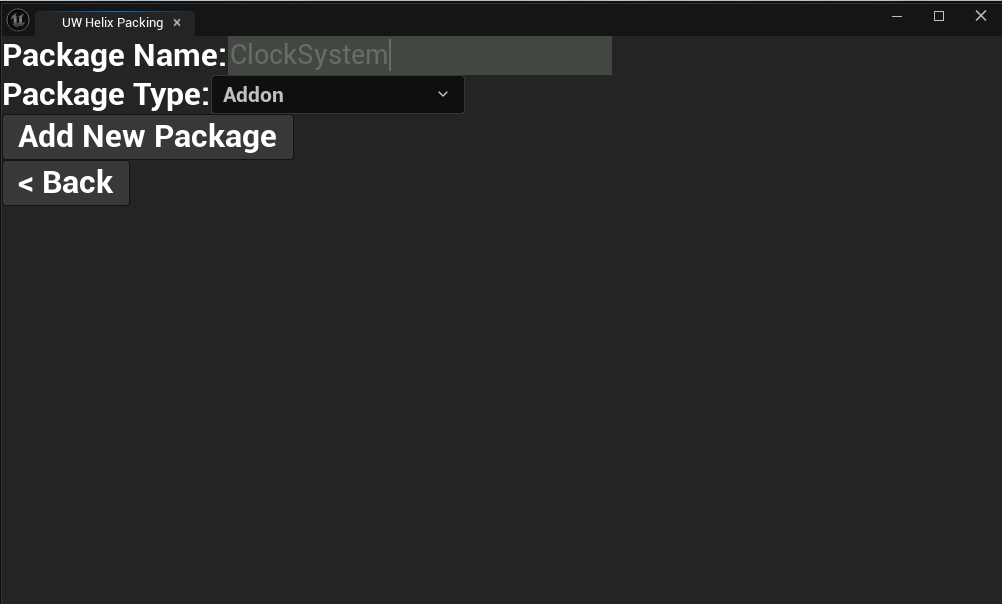
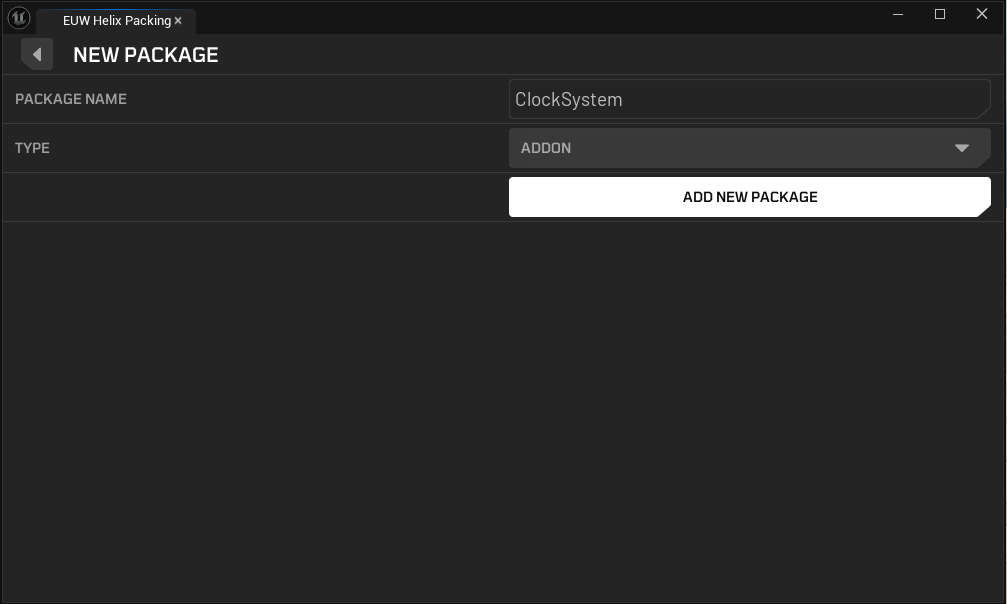
Update bp tutorial

Changed region(s): [[0.0, 0.0, 1.0, 0.1788], [0.495, 0.2384, 0.99, 0.3576], [0.0, 0.2086, 0.2784, 0.3278]]

diff --git a/docs/tutorials/custom_blueprints.md b/docs/tutorials/custom_blueprints.md
@@ -14,33 +14,28 @@ For this tutorial, we have a blueprint based clock system pack, which has a main
 
 1. Launch the **Creator Kit** editor.
 
-2. Access the **HELIX Packaging Tool** from the main toolbar.
+2. Find your imported Fab asset folder and right click to it. Select **Convert to Package (Addon)**. This will make it possible to directly cook this folder with HELIX Packaging Tool.
 
-3. In the packaging tool window, click **New Package**.
+    ![image.png](CustomBPImages/u_1.png)
 
-    ![image.png](CustomAnimImages/5.png)
+/// info | Note
+Alternatively, you can also create a new package from HELIX Packaging Tool and move your assets or import source files into this created package folder.
 
-5. Enter a unique Package Name (e.g., ClockSystem).
+![image.png](CustomBPImages/0.png)
 
-7. Select **Addon** as the **Package Type**.
-
-    ![image.png](CustomBPImages/0.png)
-
-9. Click **Add New Package**. This action creates a dedicated folder for your assets (e.g., **Content/Addon_ClockSystem**).
-
-10. Move (or create) the blueprints and all the dependent assets into the package folder you've just created.
-
-    ![image.png](CustomBPImages/1.png)
-  
-    ![image.png](CustomBPImages/2.png)
-  
-    ![image.png](CustomBPImages/3.png)
+///
 
 ---
 
 ## 2. Finalizing and Cooking The Package
 
 1. Make sure all the depending assets by your blueprint are placed inside package folder. If one of those assets are placed outside of the created package folder, created .pak file will have missing dependencies and this might cause crashes or runtime errors during playthrough with this package.
+
+    ![image.png](CustomBPImages/1.png)
+  
+    ![image.png](CustomBPImages/2.png)
+  
+    ![image.png](CustomBPImages/3.png)
 
 2. Make sure you have defined all the required functions, events, variables etc. in your blueprints to later access them with Lua inside Helix after importing your package there.
 
